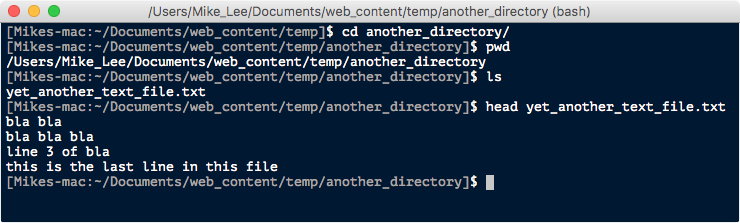
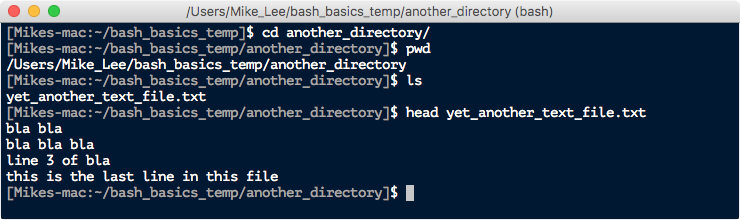
mod

Changed region(s): [[0.0, 0.0273, 1.0, 0.9273]]

diff --git a/bash/basics.md b/bash/basics.md
@@ -29,18 +29,19 @@ Okay, not really. Things do get a little more complicated, but there are program
 
 
 ### <u>First things first!</u>
-For right now, and only for right now, I would like you to blindly copy and paste the commands here to set up the tiny temporary files you'd need if you want to actively follow along below. Just reading through is of course fine, but if you are truly new to this, I'd recommend doing things with me. I promise this will be the only time you are just copying and pasting without an understanding of what you are doing. Also, I like the idea of you running these commands to generate the files, rather than just downloading them from somewhere, because by the time you reach the end of this page you will understand everything you're doing here anyway. So it will be nice for you to look back at this afterwards and have a better understanding of how these steps work.  
+For right now, and only for right now, I would like you to blindly copy and paste the commands here into your terminal window to set up the (very tiny) temporary files you'll need if you want to actively follow along below. Just reading through is of course fine, but if you are totally new to this, I'd recommend doing things with me. I promise this will be the only time you are just copying and pasting without an understanding of what you are doing. Besides, by the time you get to the end of this page, you'll be able to completely understand what's going on in here!
 
-For now, copy and paste this block of commands into the terminal window, you can copy and paste all of them at once:
+For now, copy and paste this block of commands into your terminal window, (you can copy and paste all of them at once), and be sure to hit enter after pasting them to trigger the last command.
 
-```bash
+```
 cd ~
 curl -O https://AstrobioMike.github.io/tutorial_files/bash_basics_temp.tar.gz
-tar -xvf 
+tar -xvf bash_basics_temp.tar.gz
+rm bash_basics_temp.tar.gz
+cd bash_basics_temp
+```
 
-mkdir happy_belly_temp
-cd happy_belly_temp
-nano
+Now, let's get started!
 
 
 ### <u>Running a command at the prompt</u>
@@ -51,17 +52,8 @@ The terminal 'prompt' by default is typically a line with some information endin
 <br>
 This line and the terminal itself are both customizable so things may look a little different on yours, but this is where the magic happens. 
 
-Throughout this tutorial I will be presenting blocks of code that will follow a dollar sign:
 
-
-```bash
-$ 
-```
-
-
-That dollar sign just represents your prompt, and shouldn't be typed when replicating the commands being used.
-
-To run a command in the terminal, you simply need to type the command after the prompt. Some commands don't require any further input and can be executed by hitting the return key. For example, there is a command called `date` that will output the time and date:
+To run a command in the terminal, you simply need to type the command after the prompt. Some commands don't require any further input and after being typed can be executed by hitting the return key. For example, there is a command called `date` that will output the time and date:
 
 <center><img src="{{ site.url }}/images/terminal_date.png"></center>
 
@@ -70,19 +62,21 @@ And as you can see, after hitting return, a new prompt line appears and the curs
 
 The `date` command didn't require anything else, so it worked just fine by itself, but some other commands require what are known as arguments. In these cases the format would be `command` `argument` (separated by a space). Some arguments are optional, and some are mandatory. Probably the most common type of argument is telling *bash* which file you want to do something to. 
 
-For example, the `head` command prints out the first few lines of a file to the terminal, so you need to tell it which file you want it to act on. Take for example this regular text file named 'test.txt':
+For example, the `head` command prints out the first few lines of a file to the terminal, so you need to tell it which file you want it to act on. Take for example this regular text file named "text.txt":
 
 <center><img src="{{ site.url }}/images/text.txt.png"></center> 
 
 <br>
-If I run the 'head' command on this file, the terminal prints out the first 10 lines and then returns to the prompt:
+You have this file now too, so if we run the `head` command on it, the terminal prints out the first 10 lines and then returns to the prompt:
+
 <center><img src="{{ site.url }}/images/head_example.png"></center> 
+
 <br>
 In this case, providing a file to the `head` command is required; a mandatory 'argument' for this is telling it what file we want it to act on. But this command also has optional arguments. For example, by default it prints out only the first 10 lines, but we can tell it to do however many lines we want by adding what's known as a 'flag'. These are often led by a single dash, followed by a character representing which argument you're specifying, followed by the value (or file) you want to give it. Here is an example where we tell the `head` command we want the first 15 lines of the document, overriding the default 10:
 
 
 ```bash
-$ head -n 15 text.txt
+head -n 15 text.txt
 ```
 
 
@@ -105,41 +99,41 @@ And that's really it. Those are the fundamentals that govern running virtually a
 |`ls`        |lists contents of a directory (list)|
 |`cd`|changes directories|
 
-Your computer stores files in a hierarchical structure like a tree. You are likely already used to this just by how you would navigate through by clicking on various folders (directories) and finding your way to a file. 
+Your computer stores files in a hierarchical structure like a tree. You are likely already used to this just by how you would navigate through by clicking on various folders (directories) and finding your way to a file or program. 
 
-When you are working in the terminal, you are always sitting in some directory. Here is the directory I happen to be working in, with some generic items inside it, as viewed from the Finder window:
+When you are working in the terminal, you are always sitting in some directory. Here is the directory we're currently working in, with some generic items inside it, as viewed from the Finder window:
 
 <center><img src="{{ site.url }}/images/directory_example.png"></center>  
 
 <br>
-At the top of that image you can see we are in a directory called "temp", and inside that directory there is a subdirectory called "another_directory" and two text files. Additionally at the very bottom there is a line that tells us 'where' we are in the computer:
+At the top of that image you can see we are in a directory called "bash_basics_temp", and inside that directory there is a subdirectory called "another_directory" and two text files. Additionally at the very bottom there is a line that tells us 'where' we are in the computer. Yours will be different, but this is what mine looks like:
 
-<center><code>Macintosh_HD/Users/Mike_Lee/Documents/web_content/temp</code></center>
+<center><code>Macintosh_HD/Users/Mike_Lee/bash_basics_temp</code></center>
 
 <br>
-This line of directories, delimited by forward slashes, tells us where we are; it's an address. And in the computer world it's called a PATH.
+This line of directories, delimited by forward slashes, tells us where we are; it's an address. And in the computer world it's called a 'path'.
 
 When we are working in a terminal we need to be aware of where we are in the computer. We can get all of the same information in the terminal by using the commands `pwd` (print working directory – to view the address of the directory we are in) and `ls` (list, to list the contents of the directory we're sitting in):
 
 <center><img src="{{ site.url }}/images/terminal_directory_example.png"></center>  
 
 <br>
-It is important to be comfortable thinking about where you are in your computer when working in the terminal. One of the most common errors/easiest mistakes to make is to be trying to do something to a file that isn't where you think it is. Let's go back to our example above where we used the `head` command on the "text.txt" file, and then let's try it on another file:
+It is important to be comfortable thinking about where you are in your computer when working in the terminal. One of the most common errors/easiest mistakes to make is trying to do something to a file that isn't where you think it is. Let's go back to our example above where we used the `head` command on the "text.txt" file, and then let's try it on another file:
 
 ```bash
-$ head text.txt
-$ head yet_another_text_file.txt
+head text.txt
+head yet_another_text_file.txt
 ```
 
 <center><img src="{{ site.url }}/images/file_location_error.png"></center>
 
 <br>
-Here the `head` command works fine on "text.txt", but we get an error message when we call it on "yet_another_text_file.txt". Intrepreting error messages in some cases will be tricky. As usual, google is your friend, and most problems you'll run into will be things others have already talked out somewhere – love you, [stackoverflow](https://stackoverflow.com). Fortunately this error message happens to be one of the more straightforward ones. It gives us the command that was used, the file we attempted to call it on, and tells us "No such file or directory". And if we enter the `ls` command just like we did above, we can see the computer is absolutely right (spoiler alert: it usually is). There is no file in the current directory named "yet_another_text_file.txt". And when you enter a file name without any other information, the computer only looks in the exact directory you are sitting in.  
+Here the `head` command works fine on "text.txt", but we get an error message when we call it on "yet_another_text_file.txt". Intrepreting error messages in some cases will be tricky. As usual, google is your friend, and most problems you'll run into will be things others have already talked out somewhere – love you, [stackoverflow](https://stackoverflow.com). Fortunately this error message happens to be one of the more straightforward ones. It gives us the command that was used, the file we attempted to call it on, and tells us "No such file or directory". And if we enter the `ls` command just like we did above, we can see the computer is absolutely right (spoiler alert: it usually is). There is no file in the current directory named "yet_another_text_file.txt". And when you enter a file name without any other information, the computer only looks in the exact directory you are sitting in. We'll see what this means in a second. 
 
 In this case the file we are looking for is actually in the directory "another_directory", which is a 'subdirectory' to the one we are sitting in, which we can also see when entering `ls` with no arguments. Further, if we instead enter:  
 
 ```bash
-$ ls another_directory/
+ls another_directory/
 ```
 
 We are now providing an argument to the `ls` command, and asking it to list the contents of the directory named "another_directory".
@@ -147,55 +141,50 @@ We are now providing an argument to the `ls` command, and asking it to list the 
 <center><img src="{{ site.url }}/images/ls_another_dir.png"></center>
 
 <br>
-So we see the file we tried to call `head` on isn't in our current working directory, but is actually in a subdirectory just one layer deeper than we are. We can also call `head` on the file by specifying the PATH (address) of the file like so:
+So we see the file we tried to call `head` on isn't in our current working directory, but is actually in a subdirectory just one layer deeper than we are. We can also call `head` on the file by specifying the path (address) of the file like so:
 
 ```bash
-$ head another_directory/yet_another_text_file.txt
+head another_directory/yet_another_text_file.txt
 ```
 
 <center><img src="{{ site.url }}/images/head_other_dir_example.png"></center>
 
 <br>
-There are two ways to provide the PATH to where something is: you can give what is known as the "relative PATH"; or you can give an "absolute PATH".  
+There are actually two ways to provide the path to where something is: you can give what is known as the "relative path"; or you can give an "absolute path".  
 
-What we did in the example just above is known as a relative PATH because it takes off from where we entered the command. If we were in a location that didn't have the subdirectory "another_directory" in it, then we would have also gotten an error message because the computer again wouldn't be able to find the file we were pointing to.  
+What we did in the example just above is known as a **relative path** because it takes off from where we entered the command. If we were in a location that didn't have the subdirectory "another_directory" in it, then we would have also gotten an error message because the computer again wouldn't be able to find the file we were pointing to.  
 
-We also could provide the absolutely PATH however, which isn't relative to our current location because it takes off from a specific location in the computer, rather than taking off from where we call the command. We actually saw our absolute PATH earlier when we called the `pwd` command:
+We also could provide the **absolute path** however, which isn't relative to our current location because it takes off from a specific location in the computer, rather than taking off from where we call the command. We actually saw our absolute path earlier when we called the `pwd` command:
 
 <center><img src="{{ site.url }}/images/pwd.png"></center>
 
 <br>
-Now, instead of calling `head` on "yet_another_text_file.txt" by providing the relative PATH as we did last time, we will do it using the absolute PATH. But remember, what `pwd` just showed us is where *we* are, and we need to add the subdirectory "another directory" to the end of it in order to be specifying where the file actual is:
-
-```bash
-$ head /Users/Mike_Lee/Documents/web_content/temp/another_directory/yet_another_text_file.txt
-```
+Now, instead of calling `head` on "yet_another_text_file.txt" by providing the relative PATH as we did last time, we will do it using the absolute path. But remember, what `pwd` just showed us is actually where *we* are, and we need to add the subdirectory "another directory" to the end of it in order to specify where the file actual is. To do this, we can copy and paste the output from `pwd`, and then add `/another_directory/yet_another_text_file.txt` to the end of it. Yours will be different, but this is what mine looks like: 
 
 <center><img src="{{ site.url }}/images/head_abs_path_example.png"></center>
 
 <br>
-Don't be distracted by the line wrap in the PATH. Commands you are entering will sometimes get pretty long and will automatically wrap to the next line without interfering with what you're doing.  
+Don't be distracted by the line wrap in the terminal window. Commands you are entering will sometimes get pretty long and will automatically wrap to the next line without interfering with what you're doing.  
 
 
-Now that we've covered how to do something to a file in a different location than our current working directory, let's look at how we can also just move ourselves to where that file is. We change directories with the `cd` command. Let's change directories into "another_directory", check where we are with `pwd`, check that the filing we are looking for is actually in the directory with `ls`, and then run `head` on it:
+Now that we've covered how to do something to a file in a different location than our current working directory, let's look at how we can also just move ourselves to where that file is. We change directories with the `cd` command. Let's change directories into the subdirectory called "another_directory", check where we are with `pwd`, see if the file we are looking for is actually in the directory with `ls`, and then run `head` on it:
 
 ```
-$ cd another_directory/
-$ pwd
-$ ls
-$ head yet_another_text_file.txt
+cd another_directory/
+pwd
+ls
+head yet_another_text_file.txt
 ```
 
 <center><img src="{{ site.url }}/images/cd_pwd_ls_head_example.png"></center>
 
 <br>
-Great. But now how do we get back 'up' to the directory above us? One way would be to provide the absolute PATH of where we would like to go:
-
+Great. But now how do we get back 'up' to the directory above us? One way would be to provide the absolute path of where we would like to go, which for me would look like this: 
 ```
-cd /Users/Mike_Lee/Documents/web_content/temp
-```
+cd /Users/Mike_Lee/bash_basics_temp
+``` 
 
-But that would get old fast. A better way to do it involves special characters:
+But that would get old fast. A better way to do it involves using special characters:
 
 ```
 cd ..
@@ -206,14 +195,14 @@ Here, simply entering two periods as the destination argument to the `cd` comman
 <center><img src="{{ site.url }}/images/cd_up_shortcut_example.png"></center>
 
 <br>
-Fortunately there are many special characters in *bash*, some of which allow us to navigate around much more easily. Two periods as we just saw refers to the directory just above you. Another special one is simply a lone foreward slash `/`, which we've actually already seen when we provided the absolute PATH above. What the `/` is actually telling the computer is to start at the "root" directory. This is sort of like the home base of the operating system structure; it is the 'highest' directory level. If you type `ls /`, you will get a list of the directories and files located in the root directory. And if you wanted, you could move yourself into the root directory by entering `cd /`.  
+Fortunately there are many special characters in *bash*, some of which allow us to navigate around much more easily. Two periods as we just saw refers to the directory just above you. Another special one is simply a lone foreward slash `/`, which we've actually already seen when we provided the absolute path above (e.g. `/Users/Mike_Lee/bash_basics_temp`). What the `/` in the front is actually telling the computer is to start at the "root" directory. This is sort of like the home base of the operating system structure; it is the 'highest' directory level. If you type `ls /`, you will get a list of the directories and files located in the root directory. And if you wanted, you could move yourself into the root directory by entering `cd /`.  
 
 Another special character related to location is the `~` symbol. This shortcut points to your "home" directory. A home directory is like a more personal spot on the computer. If you're on a server with multiple users, it would be your own personal location. And even if you're just working on your own computer, you likely login as a specific user when you turn it on. For instance, my home directory is located at `/Users/Mike_Lee`. We can see that if I change into my home directory and run `pwd`:
 
 <center><img src="{{ site.url }}/images/home_dir.png"></center>
 
 <br>
-Another really useful one for the `cd` command is simply a dash (`-`). This will change you back to the last directory you were in:
+Another extremely useful one for the `cd` command is simply a dash (`-`). This will change you back to the last directory you were in:
 
 <center><img src="{{ site.url }}/images/change_dir_back.png"></center>
 
